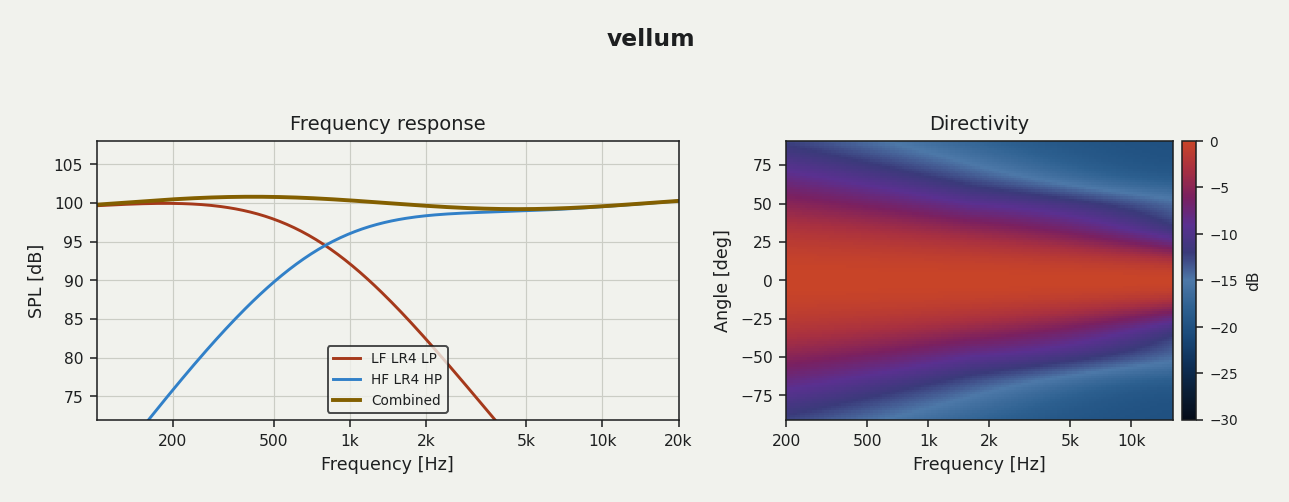
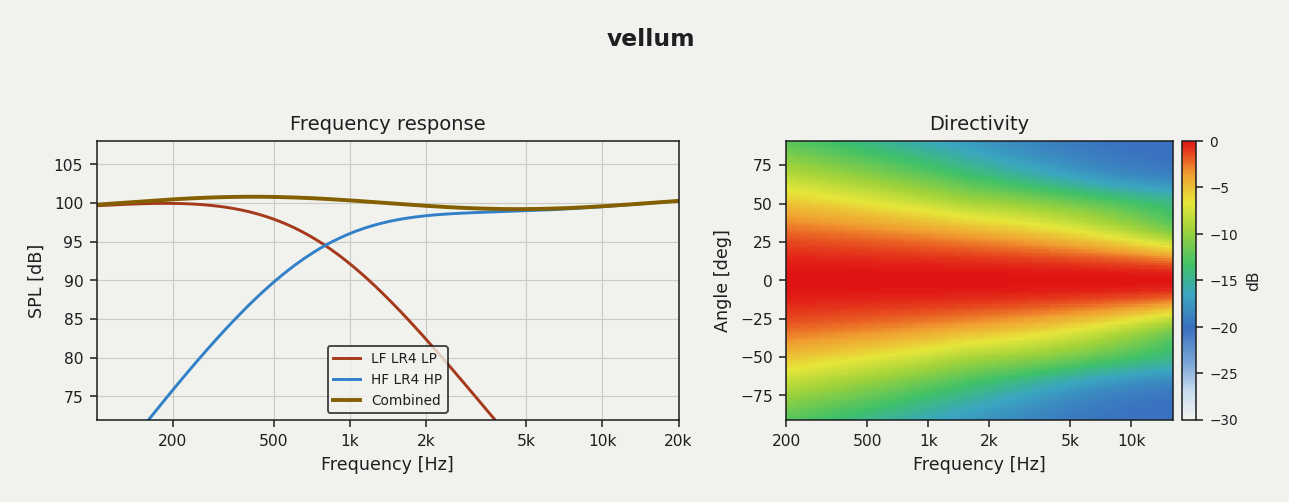
Read the vellum map on the Klippel ramp, not arctic
Arctic's floor is near-black. On console that is the panel and the quietest
part of the map recedes correctly, but on vellum's warm paper it made the
-30 dB corners the heaviest thing on the sheet -- the map sat on top of the
page instead of growing out of it.

The Klippel ramp already runs the other way, from a near-white floor up
through blue, cyan, green and yellow to red, and it is the map a light
measurement report is normally read on. Its single problem on this page is
that its floor is pure white, which glows against warm paper, so vellum
re-anchors that one stop to its own page colour and takes every other stop
unchanged.

Changed region(s): [[0.5896, 0.2689, 0.931, 0.8367]]

diff --git a/hornlab_plots/style.py b/hornlab_plots/style.py
@@ -458,56 +458,6 @@ EMBER_THEME = _spec_theme(
 )
 
 
-# Waveguide Generator application themes -----------------------------------
-#
-# Console (dark) and Vellum (light) are the palettes the Waveguide Generator
-# interface itself is built from, so a figure exported from the application
-# lands on the same surfaces, ink and accent the surrounding window uses.
-# Unlike the spec themes these are not an independent design: the greys,
-# borders and accent below are the app's own tokens and must not drift from
-# them.
-#
-# Both use the arctic heatmap rather than a per-theme colormap. It is the map
-# these figures have always been read on, and it carries real hue travel --
-# blue through violet and magenta to red -- which a single-hue warm ramp
-# cannot, and which shallow directivity gradients need.
-#
-# figure_bg equals axes_bg on purpose. In the application the plot sits
-# directly on a panel with no inner frame, and an export that reproduces that
-# is the point of these two themes existing.
-
-_CONSOLE_PANEL = "#211F1D"
-_VELLUM_PANEL = "#F1F2ED"
-
-CONSOLE_THEME = _spec_theme(
-    "console",
-    figure_bg=_CONSOLE_PANEL,
-    axes_bg=_CONSOLE_PANEL,
-    ink="#ECE8E0",
-    grid_color="#4A453D",
-    grid_linestyle="-",
-    grid_linewidth=0.6,
-    cycle=("#E0673F", "#5D9BD9", "#AD8400", "#00A6AD", "#CA90F3", "#60B374"),
-    heatmap=_heatmap_cmap(),
-    accent="#E0673F",
-    dpi=140,
-)
-
-VELLUM_THEME = _spec_theme(
-    "vellum",
-    figure_bg=_VELLUM_PANEL,
-    axes_bg=_VELLUM_PANEL,
-    ink="#1D1F20",
-    grid_color="#CBCDC5",
-    grid_linestyle="-",
-    grid_linewidth=0.6,
-    cycle=("#A5391B", "#3180C8", "#835F00", "#008F99", "#8B54B0", "#398D51"),
-    heatmap=_heatmap_cmap(),
-    accent="#A5391B",
-    dpi=140,
-)
-
-
 # Classic Klippel theme ----------------------------------------------------
 #
 # A light "classic audio-measurement report" look built from the Klippel-style
@@ -586,6 +536,72 @@ CLASSIC_THEME = _spec_theme(
     dpi=160,
     diverging=_classic_diverging_cmap(),
     cyclic=_classic_cyclic_cmap(),
+)
+
+
+# Waveguide Generator application themes -----------------------------------
+#
+# Console (dark) and Vellum (light) are the palettes the Waveguide Generator
+# interface itself is built from, so a figure exported from the application
+# lands on the same surfaces, ink and accent the surrounding window uses.
+# Unlike the spec themes these are not an independent design: the greys,
+# borders and accent below are the app's own tokens and must not drift from
+# them.
+#
+# Neither invents a colormap. Console reads the map on the arctic ramp, which
+# is what these figures have always been exported on and which carries real
+# hue travel -- blue through violet and magenta to red -- where a single-hue
+# warm ramp would not. Vellum cannot use it: arctic's floor is near-black,
+# which on paper makes the quietest part of the map the heaviest thing on the
+# page. It reads the Klippel ramp instead, whose floor is the page and whose
+# top is red, so on light the map grows out of the paper rather than sitting
+# on top of it.
+#
+# The one departure: Klippel's floor is pure white, which glows against warm
+# paper, so vellum re-anchors that single stop to its own page colour. Every
+# other stop is Klippel's.
+#
+# figure_bg equals axes_bg on purpose. In the application the plot sits
+# directly on a panel with no inner frame, and an export that reproduces that
+# is the point of these two themes existing.
+
+_CONSOLE_PANEL = "#211F1D"
+_VELLUM_PANEL = "#F1F2ED"
+
+
+def _vellum_heatmap_cmap() -> Colormap:
+    return LinearSegmentedColormap.from_list(
+        "vellum_klippel",
+        [(position, _VELLUM_PANEL if position == 0.0 else color) for position, color in _KLIPPEL_COLORS],
+        N=256,
+    )
+
+CONSOLE_THEME = _spec_theme(
+    "console",
+    figure_bg=_CONSOLE_PANEL,
+    axes_bg=_CONSOLE_PANEL,
+    ink="#ECE8E0",
+    grid_color="#4A453D",
+    grid_linestyle="-",
+    grid_linewidth=0.6,
+    cycle=("#E0673F", "#5D9BD9", "#AD8400", "#00A6AD", "#CA90F3", "#60B374"),
+    heatmap=_heatmap_cmap(),
+    accent="#E0673F",
+    dpi=140,
+)
+
+VELLUM_THEME = _spec_theme(
+    "vellum",
+    figure_bg=_VELLUM_PANEL,
+    axes_bg=_VELLUM_PANEL,
+    ink="#1D1F20",
+    grid_color="#CBCDC5",
+    grid_linestyle="-",
+    grid_linewidth=0.6,
+    cycle=("#A5391B", "#3180C8", "#835F00", "#008F99", "#8B54B0", "#398D51"),
+    heatmap=_vellum_heatmap_cmap(),
+    accent="#A5391B",
+    dpi=140,
 )
 
 

diff --git a/tests/test_themes.py b/tests/test_themes.py
@@ -41,6 +41,7 @@ APP_THEMES = {
         "ink": "#ECE8E0",
         "grid_color": "#4A453D",
         "accent": "#E0673F",
+        "heatmap": "waveguide_arctic",
     },
     "vellum": {
         "figure_bg": "#F1F2ED",
@@ -48,6 +49,7 @@ APP_THEMES = {
         "ink": "#1D1F20",
         "grid_color": "#CBCDC5",
         "accent": "#A5391B",
+        "heatmap": "vellum_klippel",
     },
 }
 
@@ -181,9 +183,9 @@ def test_application_theme_matches_interface_tokens(name):
     assert theme.text_color == pinned["ink"]
     assert theme.grid_color == pinned["grid_color"]
     assert theme.reference_contour_color == pinned["accent"]
-    # Both application themes read their map on the arctic ramp, not on a
-    # per-theme colormap; the interface mirrors this table.
-    assert theme.heatmap_cmap.name == "waveguide_arctic"
+    # Console reads the map on the arctic ramp and vellum on the Klippel one,
+    # re-anchored to the page; the interface mirrors this table.
+    assert theme.heatmap_cmap.name == pinned["heatmap"]
 
 
 def test_all_expected_themes_registered():
